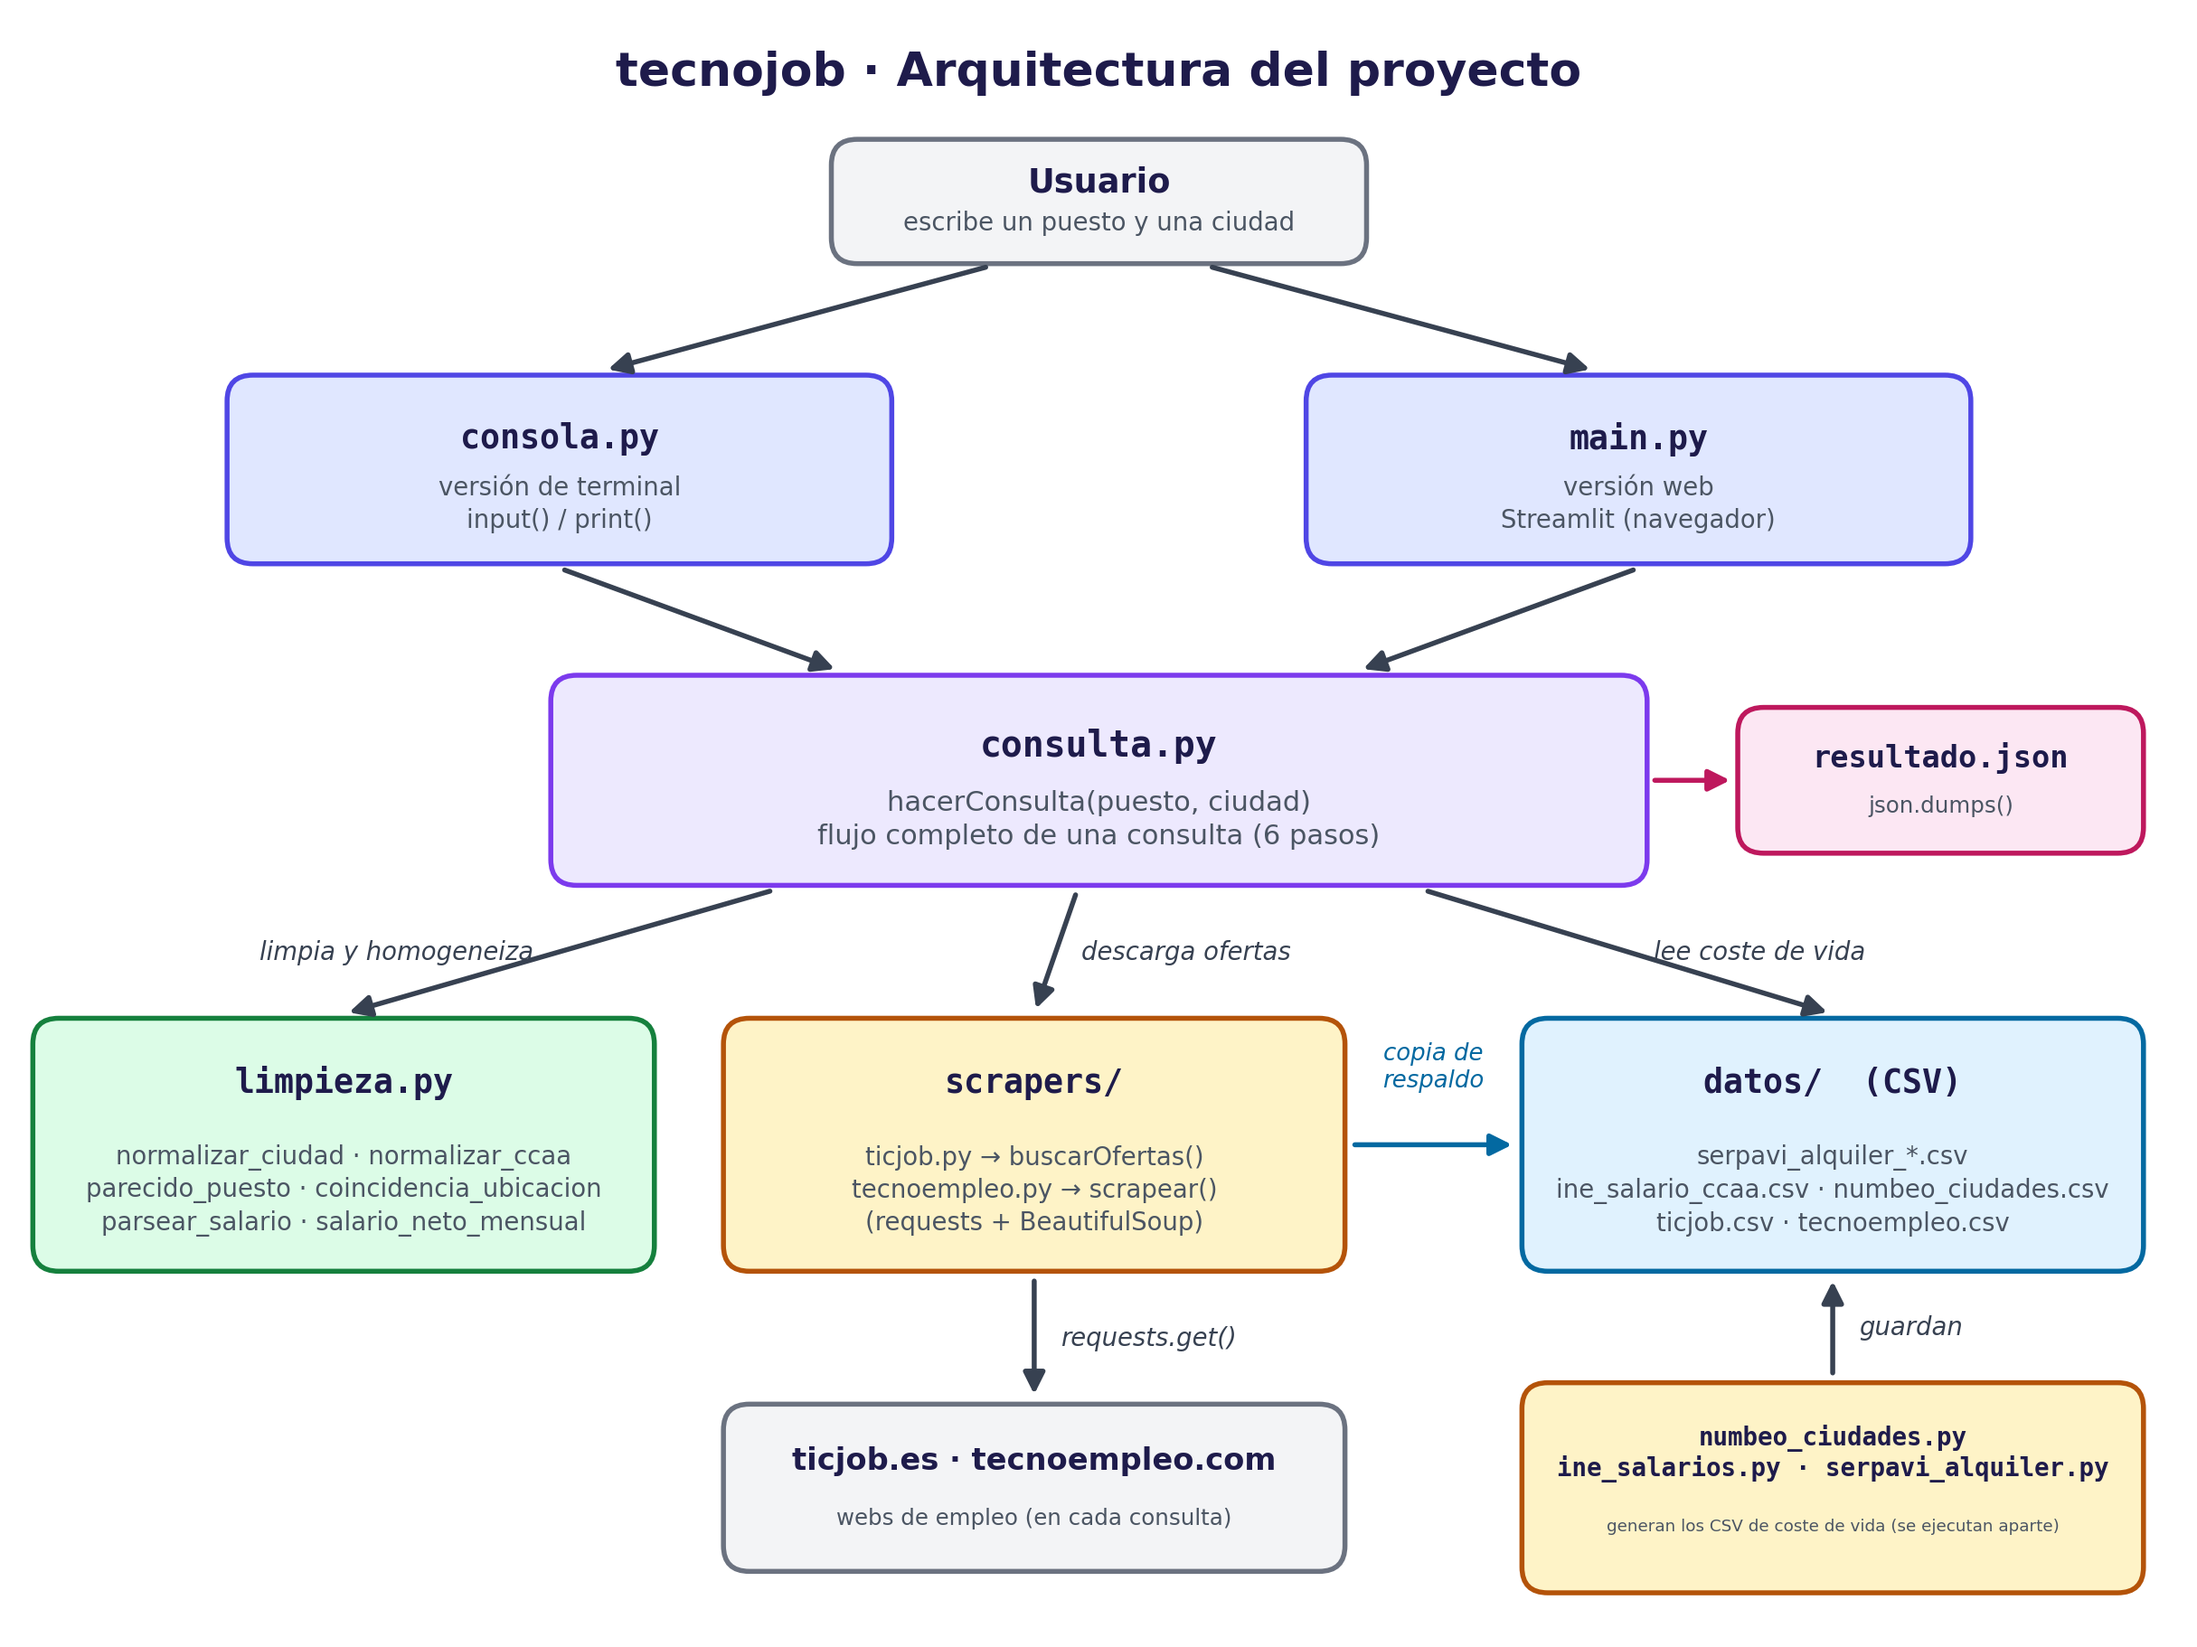
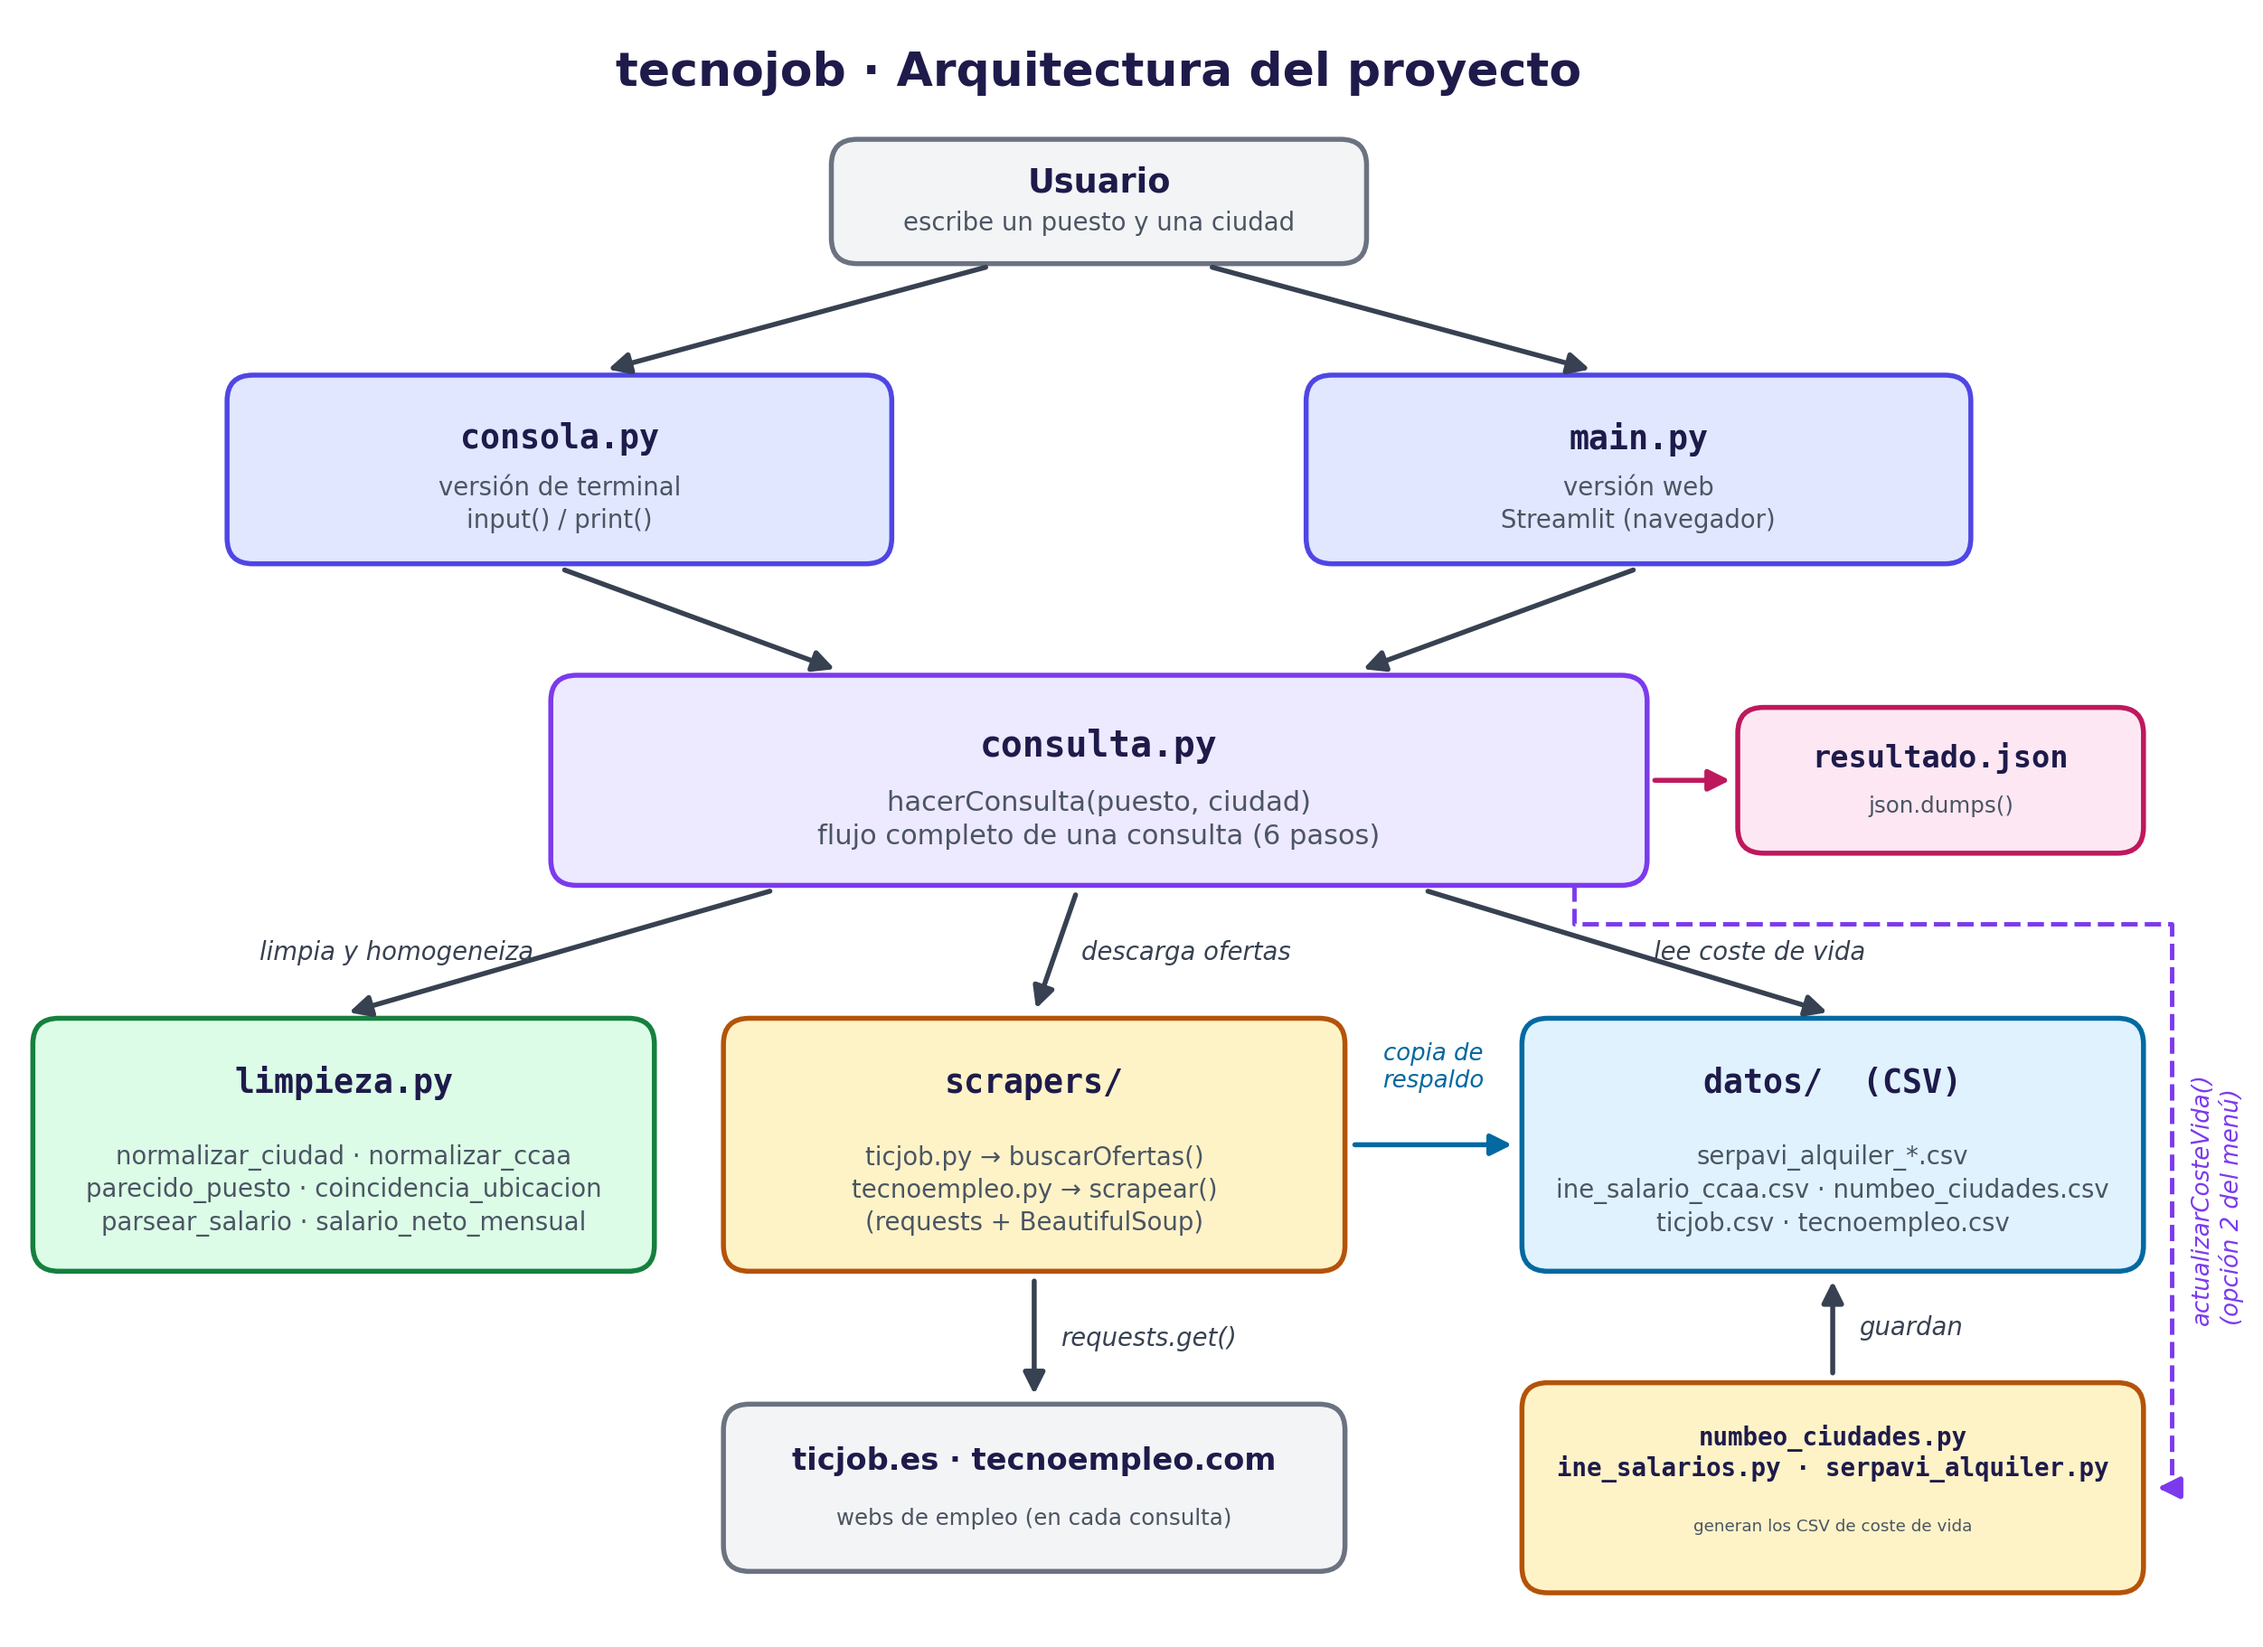
Conectar SERPAVI, INE y Numbeo desde el programa
- consulta.actualizarCosteVida() vuelve a ejecutar los tres scrapers de
  coste de vida; cargarSerpavi/Numbeo/Ine los llaman solos si falta el CSV.
- consola.py tiene un menú: consultar, actualizar coste de vida y salir.
- La web tiene un desplegable con el mismo botón de actualizar.
- cargarIne() ordena por año para quedarse con el último disponible.
- Diagrama de arquitectura y README actualizados.

diff --git a/consulta.py b/consulta.py
@@ -12,6 +12,12 @@ Flujo de una consulta (funcion hacerConsulta):
     4. Se cruzan con el alquiler (SERPAVI, Numbeo) y el salario oficial (INE).
     5. Se calcula lo que queda al mes y el veredicto.
     6. Se compara con otras ciudades.
+
+Las ofertas (Ticjob, Tecnoempleo) se descargan en cada consulta porque cambian a
+diario y dependen del puesto. El coste de vida (SERPAVI, INE, Numbeo) son datos que
+apenas cambian y tardan en descargarse, asi que se guardan en datos/ y se
+actualizan con actualizarCosteVida() (opcion 2 del menu de consola.py), o solos
+si falta algun CSV.
 """
 import os
 import sys
@@ -23,8 +29,11 @@ import limpieza
 # Los scrapers estan en la carpeta scrapers/ y los usamos como modulos
 CARPETA = os.path.dirname(os.path.abspath(__file__))
 sys.path.insert(0, os.path.join(CARPETA, 'scrapers'))
-import tecnoempleo  # noqa: E402
-import ticjob       # noqa: E402
+import ine_salarios      # noqa: E402
+import numbeo_ciudades   # noqa: E402
+import serpavi_alquiler  # noqa: E402
+import tecnoempleo       # noqa: E402
+import ticjob            # noqa: E402
 
 DATOS = os.path.join(CARPETA, 'datos')
 COLUMNAS = ticjob.cabecera + ['skills']
@@ -57,7 +66,10 @@ def euros(valor):
 
 
 def cargarSerpavi():
-    # Alquiler de pisos por municipio y provincia, con el nombre homogeneizado
+    # Alquiler de pisos por municipio y provincia, con el nombre homogeneizado.
+    # Si faltan los CSV, los genera serpavi_alquiler.py a partir del Excel oficial
+    if leerCsv('serpavi_alquiler_municipios.csv') is None or leerCsv('serpavi_alquiler_provincias.csv') is None:
+        serpavi_alquiler.convertirTodo()
     muni = leerCsv('serpavi_alquiler_municipios.csv')
     prov = leerCsv('serpavi_alquiler_provincias.csv')
     muni = muni[muni['tipologia'] == 'colectiva (pisos)'].copy()
@@ -68,21 +80,64 @@ def cargarSerpavi():
 
 
 def cargarNumbeo():
+    # Si falta el CSV, se descarga en ese momento con numbeo_ciudades.py
     numbeo = leerCsv('numbeo_ciudades.csv')
+    if numbeo is None:
+        numbeo_ciudades.guardar(numbeo_ciudades.scrapear())
+        numbeo = leerCsv('numbeo_ciudades.csv')
     numbeo['ciudad_norm'] = numbeo['ciudad'].map(limpieza.normalizar_ciudad)
     return numbeo
 
 
 def cargarIne():
-    # Nos quedamos con el salario medio bruto de cada comunidad (ambos sexos)
+    # Salario medio bruto de cada comunidad (ambos sexos) del ultimo año disponible.
+    # Si falta el CSV, se descarga en ese momento con ine_salarios.py (API REST del INE)
     ine = leerCsv('ine_salario_ccaa.csv')
+    if ine is None:
+        ine_salarios.descargar()
+        ine = leerCsv('ine_salario_ccaa.csv')
     columna = 'Comunidades y Ciudades Autónomas'
     ine = ine[(ine['Sexo'] == 'Ambos sexos') & (ine['Medidas estadísticas'] == 'Media')
               & (ine[columna] != '')]
+    # Ordenamos por año: al recorrer las filas, el ultimo año sobrescribe a los anteriores
+    ine = ine.sort_values('anio')
     salarios = {}
     for _, fila in ine.iterrows():
         salarios[fila[columna]] = float(fila['valor'])
     return salarios
+
+
+def actualizarCosteVida(avisar=print):
+    """Vuelve a generar los CSV de coste de vida llamando a sus scrapers.
+
+    Devuelve una lista de mensajes (uno por fuente). Si una fuente falla,
+    se mantiene su CSV anterior.
+    """
+    mensajes = []
+    avisar('SERPAVI: convirtiendo el Excel oficial del Ministerio...')
+    try:
+        serpavi_alquiler.convertirTodo()
+        mensajes.append('SERPAVI: actualizado.')
+    except Exception as e:
+        mensajes.append(f'SERPAVI ha fallado ({e}): se mantiene el CSV anterior.')
+
+    avisar('INE: descargando salarios de la API REST...')
+    try:
+        ine_salarios.descargar()
+        mensajes.append('INE: actualizado.')
+    except Exception as e:
+        mensajes.append(f'INE ha fallado ({e}): se mantiene el CSV anterior.')
+
+    avisar('Numbeo: descargando 14 ciudades (tarda alrededor de un minuto)...')
+    try:
+        filas = numbeo_ciudades.scrapear()
+        if len(filas) == 0:
+            raise RuntimeError('no ha devuelto ciudades')
+        numbeo_ciudades.guardar(filas)
+        mensajes.append(f'Numbeo: actualizado ({len(filas)} ciudades).')
+    except Exception as e:
+        mensajes.append(f'Numbeo ha fallado ({e}): se mantiene el CSV anterior.')
+    return mensajes
 
 
 # ---------------------------------------------------------------------------

diff --git a/consola.py b/consola.py
@@ -3,8 +3,11 @@
 Ejecutar desde la carpeta del proyecto (o con el boton Play de VS Code / Spyder):
     python3 consola.py
 
-Pide un puesto y una ciudad, muestra todo el resultado en la terminal y lo
-guarda en resultado.json.
+Menu con tres opciones:
+    1. Consultar: pide un puesto y una ciudad, muestra todo el resultado en la
+       terminal y lo guarda en resultado.json.
+    2. Actualizar los datos de coste de vida (SERPAVI, INE y Numbeo).
+    3. Salir.
 """
 import json
 import os
@@ -72,33 +75,52 @@ def mostrarResultado(r):
     print(r['ranking'].to_string(index=False))
 
 
+def opcionConsultar():
+    # Opcion 1: consulta de un puesto en una ciudad
+    puesto = input('\nPuesto de trabajo (ej. Programador Python): ').strip()
+    ciudad = input('Ciudad española (ej. Valencia): ').strip()
+    if puesto == '' or ciudad == '':
+        print('Escribe un puesto y una ciudad.')
+        return
+
+    resultado = consulta.hacerConsulta(puesto, ciudad)
+    if resultado['error']:
+        print(resultado['error'])
+        return
+    mostrarResultado(resultado)
+    # Guardamos el resultado en JSON (como en la practica de APIs REST)
+    ruta = os.path.join(consulta.CARPETA, 'resultado.json')
+    with open(ruta, 'w', encoding='utf-8') as f:
+        f.write(json.dumps(consulta.resultadoJson(resultado), indent=4,
+                           ensure_ascii=False, default=float))
+    print('\nResultado guardado en', ruta)
+
+
+def opcionActualizar():
+    # Opcion 2: volver a descargar el coste de vida (SERPAVI, INE y Numbeo)
+    print()
+    for mensaje in consulta.actualizarCosteVida():
+        print('  ', mensaje)
+
+
 # ---------------------------------------------------------------------------
-# Programa principal
+# Programa principal: menu
 # ---------------------------------------------------------------------------
 if __name__ == '__main__':
     print('=' * 46)
     print('  tecnojob · ofertas IT y coste de vida')
     print('  ¿Compensa trabajar aquí?')
     print('=' * 46)
-    seguir = 's'
-    while seguir == 's':
-        puesto = input('\nPuesto de trabajo (ej. Programador Python): ').strip()
-        ciudad = input('Ciudad española (ej. Valencia): ').strip()
-        if puesto == '' or ciudad == '':
-            print('Escribe un puesto y una ciudad.')
-            continue
-
-        resultado = consulta.hacerConsulta(puesto, ciudad)
-        if resultado['error']:
-            print(resultado['error'])
-        else:
-            mostrarResultado(resultado)
-            # Guardamos el resultado en JSON (como en la practica de APIs REST)
-            ruta = os.path.join(consulta.CARPETA, 'resultado.json')
-            with open(ruta, 'w', encoding='utf-8') as f:
-                f.write(json.dumps(consulta.resultadoJson(resultado), indent=4,
-                                   ensure_ascii=False, default=float))
-            print('\nResultado guardado en', ruta)
-
-        seguir = input('\n¿Otra consulta? (s/n): ').strip().lower()
+    opcion = ''
+    while opcion != '3':
+        print('\n1. Consultar un puesto en una ciudad')
+        print('2. Actualizar los datos de coste de vida (SERPAVI, INE y Numbeo)')
+        print('3. Salir')
+        opcion = input('Elige una opción (1, 2 o 3): ').strip()
+        if opcion == '1':
+            opcionConsultar()
+        elif opcion == '2':
+            opcionActualizar()
+        elif opcion != '3':
+            print('Opción no válida.')
     print('¡Hasta luego!')

diff --git a/main.py b/main.py
@@ -48,6 +48,13 @@ puesto = col1.text_input('Puesto de trabajo', placeholder='Programador Python, D
 ciudad_escrita = col2.text_input('Ciudad española', placeholder='Madrid, Valencia, Sevilla...')
 buscar = st.button('🔎 Buscar', type='primary')
 
+with st.expander('Actualizar los datos de coste de vida (SERPAVI, INE y Numbeo)'):
+    st.caption('Vuelve a ejecutar sus scrapers. Numbeo tarda alrededor de un minuto.')
+    if st.button('Actualizar ahora'):
+        with st.spinner('Actualizando...'):
+            for mensaje in consulta.actualizarCosteVida(avisar=lambda texto: None):
+                st.write(mensaje)
+
 if buscar and (puesto.strip() == '' or ciudad_escrita.strip() == ''):
     st.error('Escribe un puesto y una ciudad.')
 

diff --git a/README.md b/README.md
@@ -14,7 +14,8 @@ python3 consola.py      # en la terminal (sin página web)
 python3 main.py         # página web (abre el navegador)
 ```
 
-- `python3 consola.py` pide puesto y ciudad, muestra todo el resultado en la terminal y lo guarda en `resultado.json`.
+- `python3 consola.py` abre un menú: **1** consultar (pide puesto y ciudad, muestra todo el resultado en la terminal y lo guarda en `resultado.json`), **2** actualizar los datos de coste de vida (vuelve a ejecutar los scrapers de SERPAVI, INE y Numbeo) y **3** salir.
+- Las ofertas (Ticjob, Tecnoempleo) se descargan en cada consulta porque cambian a diario y dependen del puesto. El coste de vida (SERPAVI, INE, Numbeo) apenas cambia y tarda en descargarse, así que se guarda en `datos/` y se actualiza con la opción 2, o solo si falta algún CSV.
 - `python3 main.py` arranca Streamlit y abre el navegador (también funciona `streamlit run main.py`).
 - En VS Code se pueden lanzar con F5 (configuraciones de `.vscode/launch.json`).
 
